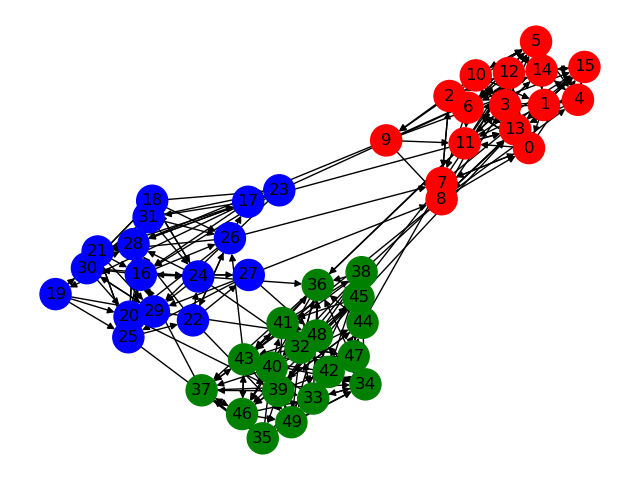
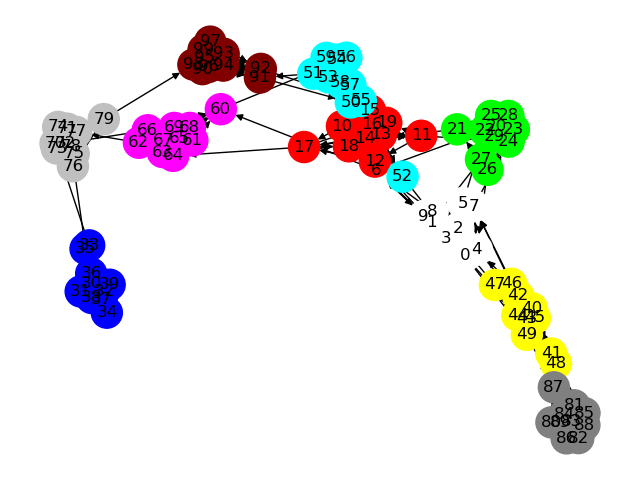
model version 1.1

Changed region(s): [[0.0625, 0.0312, 0.9375, 0.9688]]

diff --git a/model1.py b/model1.py
@@ -8,6 +8,10 @@ import time
 import pickle
 
 fig = plt.figure()
+colors = ['#FFFFFF', '#FF0000','#00FF00', '#0000FF',
+          '#FFFF00', '#00FFFF', '#FF00FF', '#C0C0C0',
+          '#808080', '#800000',	'#808000', '#008000',
+          '#800080', '#008080', '#000080']
 
 
 class Model():
@@ -62,7 +66,7 @@ class Model():
         self.U = pre_cal_u
 
 
-    def matrix_U(self, i) :
+    def U_of_matrix(self, i) :
         """ Returns the full utility of agent i given the current network structure
         g and the matrix of characteristics X """
 
@@ -95,10 +99,10 @@ class Model():
 
             # find value for new connection and removed connection
             self.g[i, r1] = 0
-            U_without = self.matrix_U(i) + eps[i]
+            U_without = self.U_of_matrix(i) + eps[i]
 
             self.g[i, r1] = 1
-            U_with = self.matrix_U(i) + eps[-i]
+            U_with = self.U_of_matrix(i) + eps[-i]
 
             # Evaluate better option
             if U_without > U_with:
@@ -106,27 +110,30 @@ class Model():
             else:
                 self.g[i, r1] = 1
 
-    def plot_network(self) :
+    def plot_network(self, final=False) :
         """ Uses networkX to plot the directed network g """
         rows, cols = np.where(self.g == 1)
+
+        # MAke the network
         edges = zip(rows.tolist(), cols.tolist())
-        gr = nx.DiGraph()  # Calling the DIRECTED graph method
+        gr = nx.DiGraph()
         gr.add_nodes_from(range(self.n))
         gr.add_edges_from(edges)
 
         # Add node colors according to X
         color_map = []
         for i in range(self.n) :
-            if np.all(self.X[i] == self.pos_X[0]) :
-                color_map.append('red')
-            if np.all(self.X[i] == self.pos_X[1]) :
-                color_map.append('blue')
-            if np.all(self.X[i] == self.pos_X[2]) :
-                color_map.append('green')
+            for j in range(len(self.pos_X)):
+                if np.all(self.X[i] == self.pos_X[j]) :
+                    color_map.append(colors[j])
 
         fig.clear()
         nx.draw(gr, node_color=color_map, with_labels=True, node_size=500)
-        plt.pause(1)
+
+        if not final:
+            plt.pause(1)
+        else:
+            plt.pause(100)
 
     def run(self, T, t_plot):
 
@@ -142,7 +149,7 @@ class Model():
             print('step:', t, end='\r')
 
             self.g_sequence[t] = self.g
-            self.zero_sequence[t] = conv_rule(self.g_sequence)
+            self.zero_sequence[t] = conv_rule(self.g_sequence, t)
 
             try :
                 if t > MINIMAL and stop_rule(self.zero_sequence, t):
@@ -153,7 +160,30 @@ class Model():
 
             # Produce a plot and diagnostics every t_plot steps
             if t  % t_plot == 0 :
-                self.plot_network()
+                print("degree:", np.sum(self.g))
+                # self.plot_network()
+
+    def rank(self):
+        '''
+        Rank the connections you have
+        :return:
+        '''
+
+        value_of_con = np.zeros((self.n, self.n))
+        for i in range(self.n):
+            for j in range(self.n):
+                old = self.g[i][j]
+
+                self.g[i][j] = 0
+                not_conn = self.U_of_matrix(i)
+
+                self.g[i][j] = 1
+                conn = self.U_of_matrix(i)
+
+                self.g[i][j] = old
+                value_of_con[i][j] = not_conn - conn
+
+        print(value_of_con)
 
 if __name__ == "__main__":
 
@@ -169,8 +199,9 @@ if __name__ == "__main__":
         return d_i ** ALPHA * C
 
     ## conv_rule ###########
-    def conv_rule(g_sequence):
-        return (np.sum(g_sequence[t] - g_sequence[t - 1]))
+    def conv_rule(g_sequence, t):
+        return np.linalg.norm((g_sequence[t-1] - g_sequence[t]), ord=1)
+        # return (np.sum(g_sequence[t] - g_sequence[t - 1]))
 
     ## STOP RULE ###########
     def stop_rule(zero_sequence, t):
@@ -181,15 +212,21 @@ if __name__ == "__main__":
     MINIMAL = n_zeros
     ########################
 
-    shares = [0.33, 0.33, 0.33]
-    possible_X = [[1, 0], [0, 1], [1, 1]]
+    # shares = [0.33, 0.33, 0.33]
+    # possible_X = [[1, 0], [0, 1], [1, 1]]
+    shares = [0.1] * 10
+    possible_X = [[1, 0, 1], [0, 1, 1], [1, 1, 1], [1, 2, 0],
+                  [1, 0, 2], [0, 1, 2], [2, 2, 1], [2, 2, 0],
+                  [2, 0, 2], [0, 2, 2]]
+
     pos_link = 0.1
-    n = 50  # Number of agents
+    n = 100  # Number of agents
 
     # make and run model
     M = Model(n, pos_link, shares, possible_X)
-    M.run(1000, 50)
+    M.run(500, 10)
+    # M.rank()
 
     # Save result
-    M.plot_network()
+    M.plot_network(final=True)
     fig.savefig('result.png')
